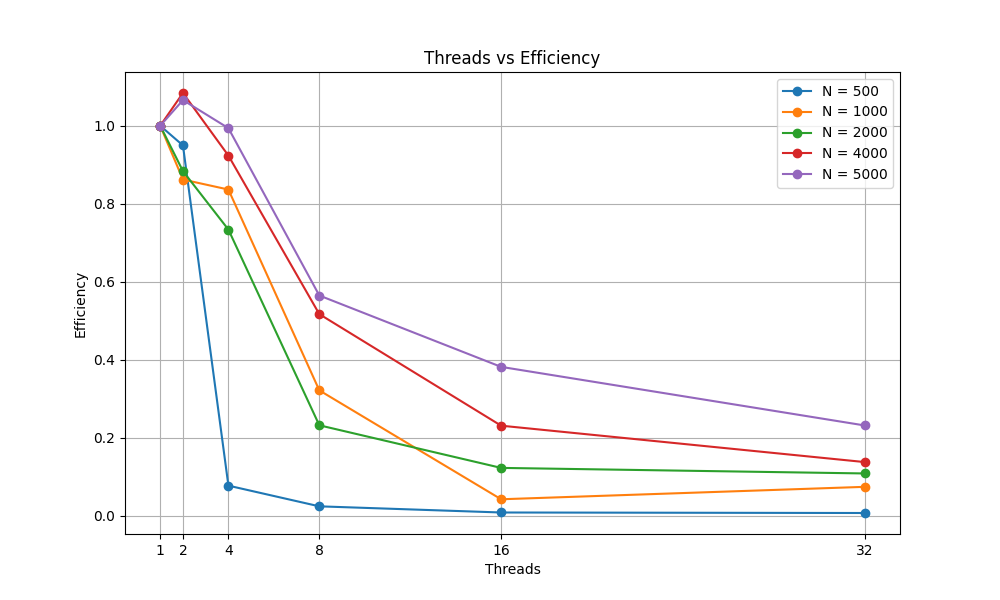
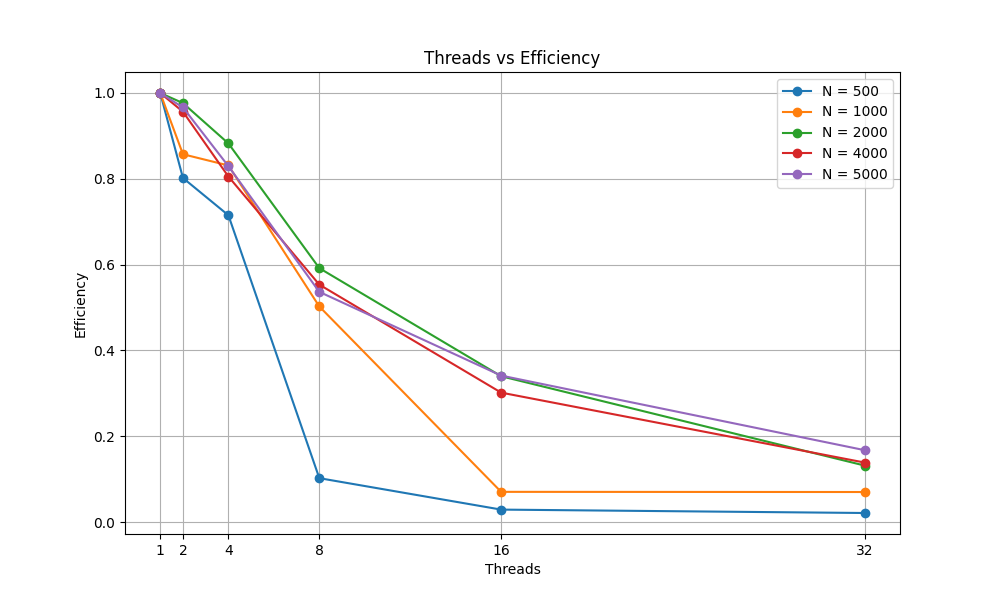
Updated

diff --git a/nbody_OpenMP.cpp b/nbody_OpenMP.cpp
@@ -1,8 +1,6 @@
 #include <pybind11/pybind11.h>
 #include <pybind11/stl.h>
 
-#include "nbody_OpenMP.h"
-
 #include <cmath>
 #include <iostream>
 #include <vector>
@@ -100,7 +98,7 @@ void compute_forces_open_mp(BodiesContainer& container, double dt, double G, int
 
     #pragma omp parallel num_threads(number_threads)
     {
-        #pragma omp for
+        #pragma omp for schedule(dynamic)
         for (int i = 0; i < n; ++i) { // Iterate through each body
             double ax = 0.0, ay = 0.0, az = 0.0; // Stores accel temporarily
 

diff --git a/sim.py b/sim.py
@@ -63,7 +63,7 @@ def main():
     print("Precomputing positions...")
     all_positions = []  # list of tuples (xs, ys, zs)
     for step in range(NUM_STEPS):
-        nbody_OpenMP.compute_forces_OpenMP(bodies, DT, G, 32)
+        nbody_OpenMP.compute_forces_OpenMP(bodies, DT, G, 8)
 
         if step % FRAMES_BETWEEN_UPDATES == 0:
             xs = [bodies.get_body(i).x for i in range(N)]

diff --git a/times.py b/times.py
@@ -75,5 +75,3 @@ with open(file = "times.csv", mode = 'w') as file:
     file.write('N,threads,time_elapsed,speedup,efficiency\n')
     for i in range(len(times_N)):
         file.write(f'{times_N[i]},{times_thread[i]},{times[i]},{speedup[i]},{efficiency[i]}\n')
-
-print(true_time)
